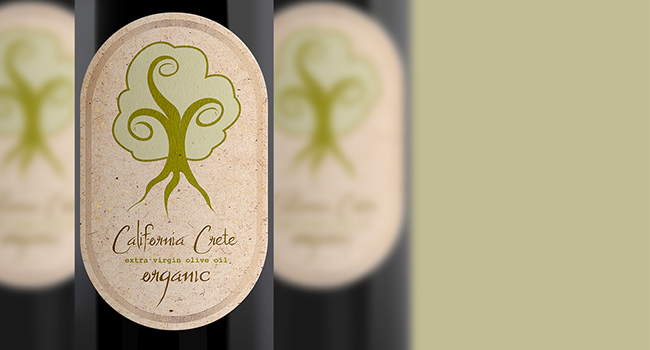
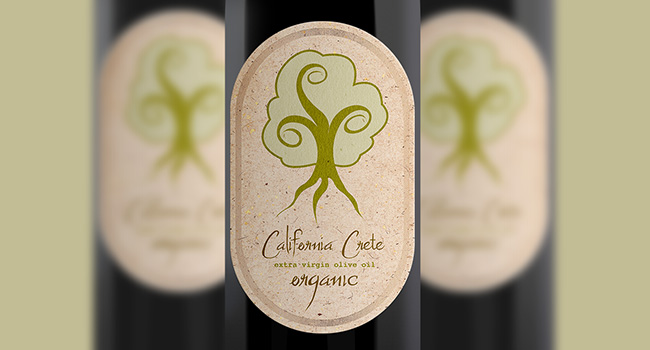
updated page

diff --git a/index.html b/index.html
@@ -17,6 +17,8 @@
     <!-- Custom Fonts -->
     <link href='http://fonts.googleapis.com/css?family=Open+Sans:300italic,400italic,600italic,700italic,800italic,400,300,600,700,800' rel='stylesheet' type='text/css'>
     <link href='http://fonts.googleapis.com/css?family=Merriweather:400,300,300italic,400italic,700,700italic,900,900italic' rel='stylesheet' type='text/css'>
+    <link href='https://fonts.googleapis.com/css?family=Archivo+Black' rel='stylesheet' type='text/css'>
+    <link href='https://fonts.googleapis.com/css?family=Montserrat' rel='stylesheet' type='text/css'>
     <!-- FONT AWESOME ICONS -->
     <link rel="stylesheet" href="https://maxcdn.bootstrapcdn.com/font-awesome/4.5.0/css/font-awesome.min.css">
 
@@ -80,7 +82,7 @@
     <header>
         <div class="header-content">
             <div class="header-content-inner">
-                <a href="#about" class="btn page-scroll"><i class="fa fa-chevron-circle-down"></i></a>
+                <!-- <a href="#about" class="btn page-scroll"><i class="fa fa-chevron-circle-down"></i></a> -->
             </div>
         </div>
     </header>
@@ -89,16 +91,14 @@
         <div class="container">
             <div class="row">
                 <div class="col-sm-6 text-center">
-                    <h2 class="section-heading">We've got what you need!</h2>
-                    <hr class="light">
+                    <h2 class="section-heading">DESIGNER</h2>
+                    <!-- <hr class="light"> -->
                     <p class="text-faded">Start Bootstrap has everything you need to get your new website up and running in no time! All of the templates and themes on Start Bootstrap are open source, free to download, and easy to use. No strings attached!</p>
-                    <a href="#" class="btn btn-default btn-xl">Get Started!</a>
                 </div>
                 <div class="col-sm-6 text-center">
-                    <h2 class="section-heading">We've got what you need!</h2>
-                    <hr class="light">
+                    <h2 class="section-heading">DEVELOPER</h2>
+                    <!-- <hr class="light"> -->
                     <p class="text-faded">Start Bootstrap has everything you need to get your new website up and running in no time! All of the templates and themes on Start Bootstrap are open source, free to download, and easy to use. No strings attached!</p>
-                    <a href="#" class="btn btn-default btn-xl">Get Started!</a>
                 </div>
             </div>
         </div>
@@ -108,39 +108,53 @@
         <div class="container">
             <div class="row">
                 <div class="col-lg-12 text-center">
-                    <h2 class="section-heading">At Your Service</h2>
-                    <hr class="primary">
+                    <!-- <h2 class="section-heading">At Your Service</h2>
+                    <hr class="primary"> -->
                 </div>
             </div>
         </div>
         <div class="container">
             <div class="row">
-                <div class="col-lg-3 col-md-6 text-center">
+                <div class="col-sm-2 text-center">
                     <div class="service-box">
-                        <i class="fa fa-4x fa-diamond wow bounceIn text-primary"></i>
-                        <h3>Sturdy Templates</h3>
-                        <p class="text-muted">Our templates are updated regularly so they don't break.</p>
+                        <img src="img/Illustrator.png" alt=""><i class="wow fadeIn text-primary"></i>
+                        <!-- <h3>Sturdy Templates</h3>
+                        <p class="text-muted">Our templates are updated regularly so they don't break.</p> -->
                     </div>
                 </div>
-                <div class="col-lg-3 col-md-6 text-center">
+                <div class="col-sm-2 text-center">
                     <div class="service-box">
-                        <i class="fa fa-4x fa-paper-plane wow bounceIn text-primary" data-wow-delay=".1s"></i>
-                        <h3>Ready to Ship</h3>
-                        <p class="text-muted">You can use this theme as is, or you can make changes!</p>
+                        <img src="img/Photoshop.png" alt=""><i class="wow fadeIn text-primary" data-wow-delay=".1s"></i>
+                        <!-- <h3>Ready to Ship</h3>
+                        <p class="text-muted">You can use this theme as is, or you can make changes!</p> -->
                     </div>
                 </div>
-                <div class="col-lg-3 col-md-6 text-center">
+                <div class="col-sm-2 text-center">
                     <div class="service-box">
-                        <i class="fa fa-4x fa-newspaper-o wow bounceIn text-primary" data-wow-delay=".2s"></i>
-                        <h3>Up to Date</h3>
-                        <p class="text-muted">We update dependencies to keep things fresh.</p>
+                        <img src="img/Indesign.png" alt=""><i class="wow fadeIn text-primary" data-wow-delay=".2s"></i>
+                        <!-- <h3>Up to Date</h3>
+                        <p class="text-muted">We update dependencies to keep things fresh.</p> -->
                     </div>
                 </div>
-                <div class="col-lg-3 col-md-6 text-center">
+                <div class="col-sm-2 text-center">
                     <div class="service-box">
-                        <i class="fa fa-4x fa-heart wow bounceIn text-primary" data-wow-delay=".3s"></i>
-                        <h3>Made with Love</h3>
-                        <p class="text-muted">You have to make your websites with love these days!</p>
+                        <img src="img/html_css.png" alt=""><i class="wow fadeIn text-primary" data-wow-delay=".3s"></i>
+                        <!-- <h3>Made with Love</h3>
+                        <p class="text-muted">You have to make your websites with love these days!</p> -->
+                    </div>
+                </div>
+                <div class="col-sm-2 text-center">
+                    <div class="service-box">
+                        <img src="img/git.png" alt=""><i class="wow fadeIn text-primary" data-wow-delay=".3s"></i>
+                        <!-- <h3>Made with Love</h3>
+                        <p class="text-muted">You have to make your websites with love these days!</p> -->
+                    </div>
+                </div>
+                <div class="col-sm-2 text-center">
+                    <div class="service-box">
+                        <img src="img/bootstrap.png" alt=""><i class="wow fadeIn text-primary" data-wow-delay=".3s"></i>
+                        <!-- <h3>Made with Love</h3>
+                        <p class="text-muted">You have to make your websites with love these days!</p> -->
                     </div>
                 </div>
             </div>
@@ -156,10 +170,10 @@
                         <div class="portfolio-box-caption">
                             <div class="portfolio-box-caption-content">
                                 <div class="project-category text-faded">
-                                    Category
+                                    Magazine Ad
                                 </div>
                                 <div class="project-name">
-                                    Project Name
+                                    Flipside
                                 </div>
                             </div>
                         </div>
@@ -171,10 +185,10 @@
                         <div class="portfolio-box-caption">
                             <div class="portfolio-box-caption-content">
                                 <div class="project-category text-faded">
-                                    Category
+                                    Logo & Business Card
                                 </div>
                                 <div class="project-name">
-                                    Project Name
+                                    Fractal
                                 </div>
                             </div>
                         </div>
@@ -186,10 +200,10 @@
                         <div class="portfolio-box-caption">
                             <div class="portfolio-box-caption-content">
                                 <div class="project-category text-faded">
-                                    Category
+                                    Custom Font & Typography Poster
                                 </div>
                                 <div class="project-name">
-                                    Project Name
+                                    doe joe
                                 </div>
                             </div>
                         </div>
@@ -201,40 +215,40 @@
                         <div class="portfolio-box-caption">
                             <div class="portfolio-box-caption-content">
                                 <div class="project-category text-faded">
-                                    Category
+                                    Olive Oil Logo & Label
                                 </div>
                                 <div class="project-name">
-                                    Project Name
+                                    California Crete
                                 </div>
                             </div>
                         </div>
                     </a>
                 </div>
                 <div class="col-lg-4 col-sm-6">
-                    <a href="#" class="portfolio-box">
+                    <a href="geekwiseb2.github.io/pet-store-joeron86/index.html" class="portfolio-box">
                         <img src="img/portfolio/Pstore_thumb.jpg" class="img-responsive" alt="">
                         <div class="portfolio-box-caption">
                             <div class="portfolio-box-caption-content">
                                 <div class="project-category text-faded">
-                                    Category
+                                    Website
                                 </div>
                                 <div class="project-name">
-                                    Project Name
+                                    Pet Store
                                 </div>
                             </div>
                         </div>
                     </a>
                 </div>
                 <div class="col-lg-4 col-sm-6">
-                    <a href="#" class="portfolio-box">
+                    <a href="geekwiseb2.github.io/restaurante-joeron86/" class="portfolio-box">
                         <img src="img/portfolio/restaurante_thumb.jpg" class="img-responsive" alt="">
                         <div class="portfolio-box-caption">
                             <div class="portfolio-box-caption-content">
                                 <div class="project-category text-faded">
-                                    Category
+                                    Website
                                 </div>
                                 <div class="project-name">
-                                    Project Name
+                                    Restaurante
                                 </div>
                             </div>
                         </div>
@@ -257,9 +271,9 @@
         <div class="container">
             <div class="row">
                 <div class="col-lg-8 col-lg-offset-2 text-center">
-                    <h2 class="section-heading">Let's Get In Touch!</h2>
+                    <h3 class="section-heading">Let's Make Something Amazing!</h3>
                     <hr class="primary">
-                    <p>Ready to start your next project with us? That's great! Give us a call or send us an email and we will get back to you as soon as possible!</p>
+                    <p>When your ready to make something epic give me a call or shoot me an email and I will get back to you as soon as possible!</p>
                 </div>
                 <div class="col-lg-4 col-lg-offset-2 text-center">
                     <i class="fa fa-phone fa-3x wow fadeIn"></i>

diff --git a/css/styles.css b/css/styles.css
@@ -1,5 +1,9 @@
+.navbar-default {
+  font-family: 'Montserrat', sans-serif;
+}
+
 header {
-    min-height: 800px;
+    min-height: 900px;
     width: 100%;
     position: relative;
     background-color: #000;
@@ -11,3 +15,36 @@ header {
     background-repeat: no-repeat;
     -o-background-size: cover;
 }
+#about {
+  min-height: 400px;
+  background-color: #fff;
+}
+
+.section-heading {
+  font-family: 'Archivo Black', sans-serif;
+  color: #000;
+}
+
+
+.text-faded {
+    color: #7b7a7a;
+}
+
+#services {
+  background-color: #f05f40;
+}
+
+section {
+    padding: 150px 0;
+}
+
+.portfolio-box .portfolio-box-caption {
+    display: block;
+    position: absolute;
+    bottom: 0;
+    width: 100%;
+    height: 100%;
+    text-align: center;
+    color: #fff;
+    opacity: 0;
+    background: rgba(0,0,0,.8);

diff --git a/css/creative.css b/css/creative.css
@@ -101,7 +101,7 @@ aside {
 .navbar-default .nav>li>a:focus {
     text-transform: uppercase;
     font-size: 13px;
-    font-weight: 700;
+    /*font-weight: 700;*/
     color: #222;
 }
 
